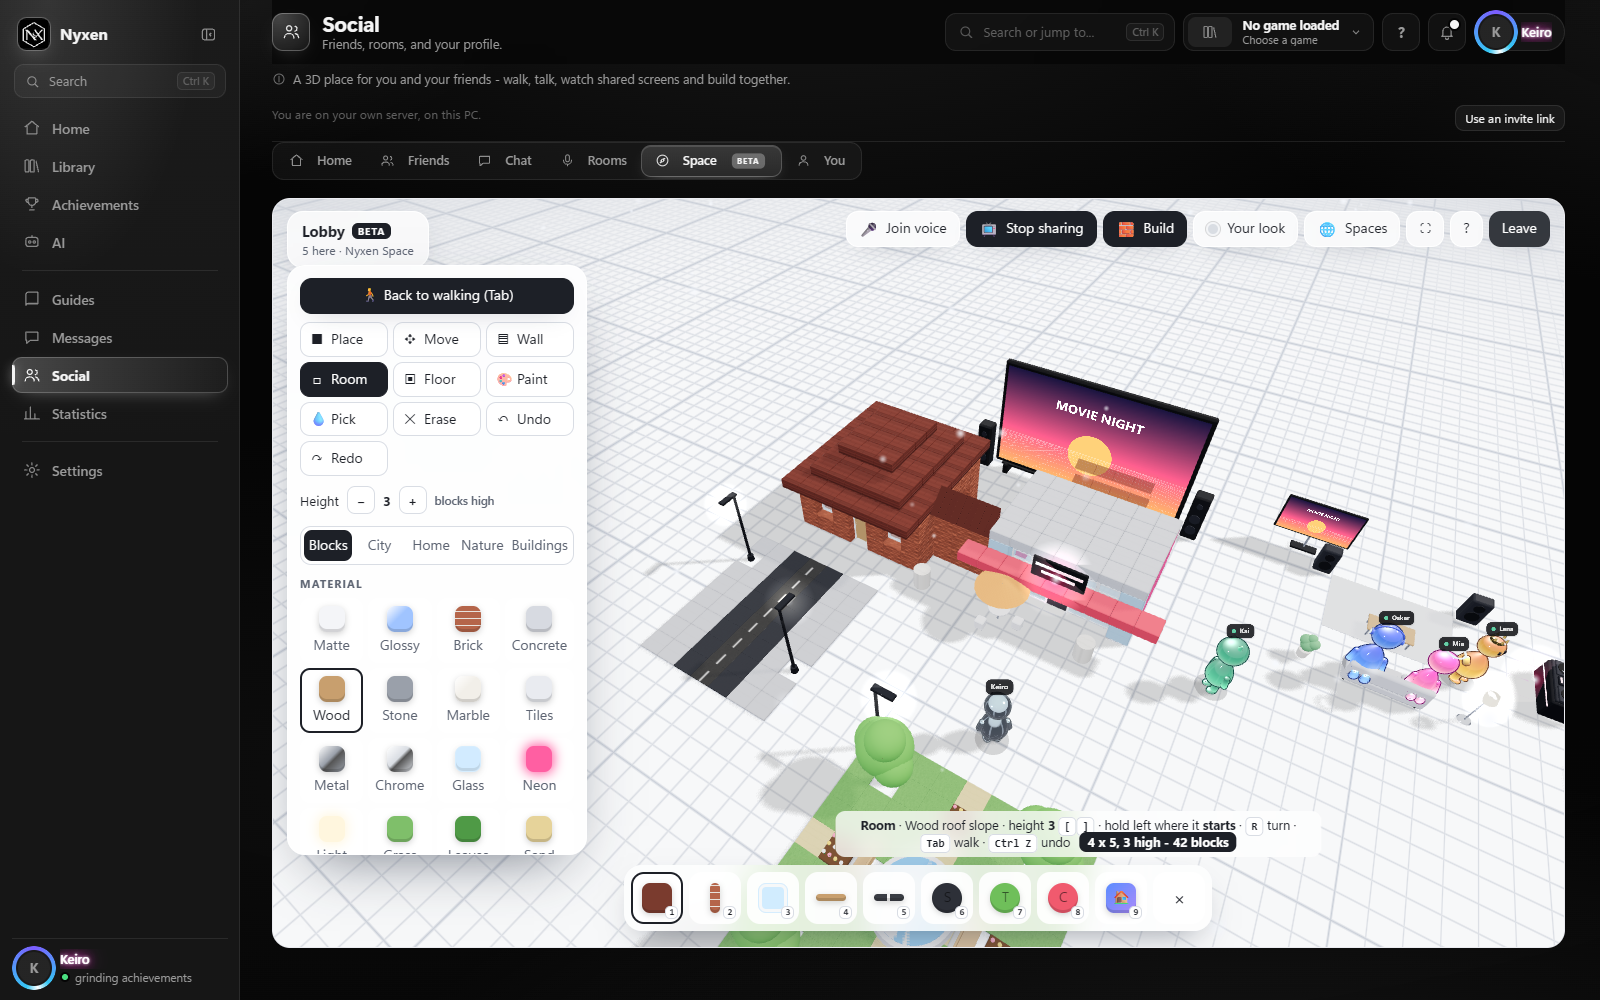
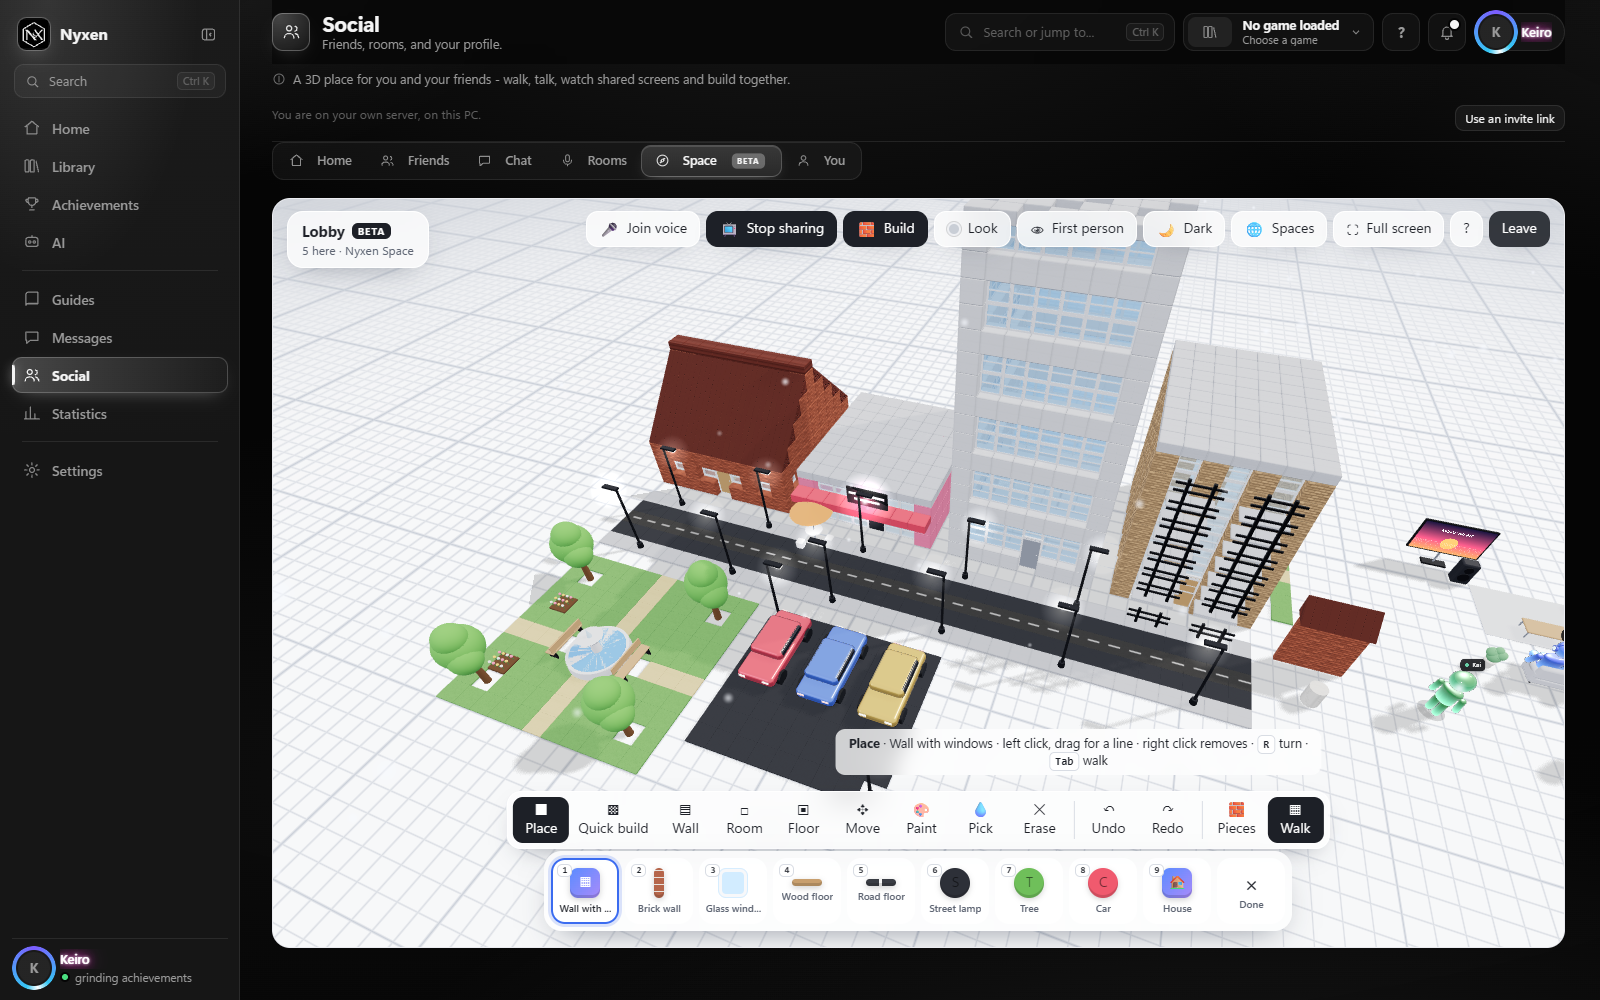
Publish the Nyxen site
Static build for GitHub Pages: the size and SHA-256 of the
installer are measured at build time rather than typed, the
screenshot gallery is generated from the shots folder, and the
download points at the Release rather than a file in the repo.

Changed region(s): [[0.1562, 0.186, 1.0, 0.961], [0.75, 0.93, 0.8125, 0.961], [0.9062, 0.434, 0.9375, 0.465]]

diff --git a/index.html b/index.html
@@ -4,7 +4,7 @@
 <meta charset="utf-8">
 <meta name="viewport" content="width=device-width, initial-scale=1">
 <title>Nyxen — one place for your games</title>
-<meta name="description" content="A Windows companion for your games: mods from four sites at once, Minecraft with any launcher, RetroArch achievements, friends and calls. Free, one click, no account needed.">
+<meta name="description" content="A Windows companion for your games: mods from four sites at once, Minecraft with any launcher, RetroArch achievements, friends, calls and a 3D Space. Free - with a free Nyxen account you make in the app.">
 <meta name="theme-color" content="#060606">
 <link rel="icon" href="logo.svg" type="image/svg+xml">
 <meta property="og:title" content="Nyxen">
@@ -549,18 +549,20 @@
     <h1><span class="shine" data-split>One place for your games.</span></h1>
     <p class="sub">Mods from four sites at once. Minecraft with whatever launcher
       you already have - now in 3D blocks. Retro achievements. Your friends, and a 3D
-      Space to hang out in. One Windows app that needs no account to be useful.</p>
+      Space to hang out in. One Windows app and one free Nyxen account.</p>
     <div class="cta">
-      <a class="btn magnet" href="https://github.com/Kerioxsx/nyxen/releases/download/v1.13.0/NyxenSetup.exe"><span>Download for Windows</span>
+      <a class="btn magnet" href="https://github.com/Kerioxsx/nyxen/releases/download/v1.14.0/NyxenSetup.exe"><span>Download for Windows</span>
         <span class="arw" aria-hidden="true">&rarr;</span></a>
       <a class="btn ghost magnet" href="#look"><span>See it first</span></a>
     </div>
-    <p class="meta">Version 1.13.0 &middot; 40.6 MB &middot; Windows 10 and 11
+    <p class="meta">Version 1.14.0 &middot; 40.6 MB &middot; Windows 10 and 11
       &middot; no administrator rights needed</p>
     <div class="news">
       <a href="#s-tray"><b>New</b>Nyxen in the tray</a>
       <a href="#s-map"><b>New</b>Minecraft in 3D blocks</a>
-      <a href="#s-space"><b>Beta</b>Nyxen Space - a 3D room for friends</a>
+      <a href="#s-space"><b>Beta</b>Nyxen Space - chrome figures, DJ decks and a cinema</a>
+      <a href="#s-build"><b>New</b>Quick build: drag an area, pick a building</a>
+      <a href="#s-views"><b>New</b>First person, full screen, dark or white</a>
       <a href="#s-voice"><b>New</b>A voice that sounds human</a>
       <a href="#s-social"><b>New</b>Songs with their covers, instantly</a>
     </div>
@@ -588,7 +590,7 @@
   </div>
 
   <section id="new">
-    <p class="eyebrow rise">New in 1.13.0</p>
+    <p class="eyebrow rise">New in 1.14.0</p>
     <h2 class="rise">The biggest update yet</h2>
     <p class="lead rise">Everything below is in the build on this page - click a picture to see it full size.</p>
 
@@ -629,21 +631,57 @@
     </div>
 
     <div class="spot flip rise" id="s-space">
-      <div class="shotbox" data-full="shots/space.png"><img src="shots/space.png" alt="Glossy buddies around a couch and DJ decks under a grey sky, with a shared screen on the TV" loading="lazy">
-        <div class="pip"><img src="shots/space_build.png" alt="Building a brick house, a shop and a road in Nyxen Space" loading="lazy"></div></div>
+      <div class="shotbox" data-full="shots/space.png"><img src="shots/space.png" alt="Chrome figures in Nyxen Space: one says 'bro answer your phone' in a blue bubble, friends sit on the couch in front of a shared screen, and a green mic shows who is talking" loading="lazy">
+        <div class="pip"><img src="shots/space_dark.png" alt="The same Space at night, with a grid of light on the floor" loading="lazy"></div></div>
       <div>
         <span class="kick beta">Beta</span>
         <h3>Nyxen Space: hang out in 3D</h3>
         <p>A tab in Social: a white grid floor under a soft grey sky - or a night one - where you and your
-          friends walk around as glossy buddies with floating heads, like the old messenger icon, dressed the way you like.</p>
+          friends walk around as shiny figures with a floating head, shoulders, arms and legs, dressed the way you like.</p>
         <ul>
-          <li>Your look: any colour, glossy, jelly, two-tone, chrome or oil-slick, height, build, face and a hat</li>
-          <li>Talk: a real voice call, quieter the further away people stand - and chat bubbles over heads</li>
+          <li>Your look: any colour in chrome, glossy, jelly, two-tone or oil-slick, height, build, head and a hat</li>
+          <li>Talk: a real voice call, quieter the further away people stand - a green mic floats over whoever is talking</li>
+          <li>Say something and it pops up in a blue bubble over your head</li>
           <li>DJ decks: paste any song link and everyone there hears it, in time - louder near the decks</li>
           <li>Sit on the couch and watch whoever shares their screen on the TV - or on a cinema screen</li>
-          <li>Build like a city builder, walking or from a top view: walls and rooms in one drag, roof slopes,
-            columns, roads, lamps, cars, ready-made buildings - and Move to rearrange anything</li>
-          <li>Make your own spaces, light or dark, and everything you build stays</li>
+          <li>Make your own spaces and invite friends - everything you build stays</li>
+        </ul>
+      </div>
+    </div>
+
+    <div class="spot rise" id="s-build">
+      <div class="shotbox" data-full="shots/space_build.png"><img src="shots/space_build.png" alt="A street made with quick build in Nyxen Space: a brick house, a pink shop, an office tower and apartments along a road, with a park and a parking lot across it" loading="lazy">
+        <div class="pip"><img src="shots/space_zone.png" alt="The quick build menu next to a dragged area: house, shop, office tower, apartments, park, plaza, parking, road, floor, walls around and clear it" loading="lazy"></div></div>
+      <div>
+        <span class="kick">Nyxen Space</span>
+        <h3>Quick build: drag an area, pick what goes there</h3>
+        <p>Pick <b>Quick build</b>, drag over the ground and choose - a house, a shop, an office tower,
+          apartments, a park, a plaza, parking or a road. It is built to fit the area you dragged, facing you.
+          The street above took seven drags.</p>
+        <ul>
+          <li>Ready-made pieces: brick and white walls, walls with windows or a door, glass, fences,
+            stairs, a roof and a floor - placed in one click</li>
+          <li>Walls and rooms in one drag, floors in one drag, and <b>Clear it</b> empties an area</li>
+          <li>A bigger hotbar with names under every slot - click a slot again for every piece and colour</li>
+          <li>Every tool in one row: Place, Quick build, Wall, Room, Floor, Move, Paint, Pick, Erase, Undo and Redo</li>
+          <li>A top view (Tab) to plan a whole street, then walk it</li>
+          <li>See what you are about to build before you click - and Move to rearrange anything later</li>
+        </ul>
+      </div>
+    </div>
+
+    <div class="spot flip rise" id="s-views">
+      <div class="shotbox" data-full="shots/space_first.png"><img src="shots/space_first.png" alt="First person in Nyxen Space: looking over the couch at friends watching a shared screen, a green mic over the one talking" loading="lazy"></div>
+      <div>
+        <span class="kick">Nyxen Space</span>
+        <h3>Your view, your way</h3>
+        <p>See the Space through your own eyes, fill the whole screen with it, and pick day or night - for you,
+          without changing it for anyone else.</p>
+        <ul>
+          <li><b>First person</b>: one button, F5, or scroll all the way in - scroll out to see yourself again</li>
+          <li><b>Full screen</b>: the Space takes the whole monitor, Esc brings Nyxen back</li>
+          <li><b>Dark or White</b>: one button flips the Space between a night sky and a bright grey one</li>
+          <li>Left click builds, right click removes, the middle button picks up what you point at</li>
         </ul>
       </div>
     </div>
@@ -654,7 +692,7 @@
         <span class="kick">Assistant</span>
         <h3>A voice that sounds like a person</h3>
         <p>One click in Settings and the assistant stops sounding like a robot. The natural voice runs
-          entirely on your PC - no key, no account, nothing you say is sent anywhere.</p>
+          entirely on your PC - no key to paste, and nothing you say is sent anywhere.</p>
         <ul>
           <li>Ten voices: Heart, Bella, Nicole, Michael, Fenrir, Puck, Emma, George - and Spanish</li>
           <li>Starts talking while it is still thinking of the next sentence</li>
@@ -701,8 +739,8 @@
       <div class="card rise">
         <span class="tag">New</span>
         <h3>Nyxen Space (beta)</h3>
-        <p>A 3D room for friends: glossy buddies, voice that fades with distance, DJ decks for music,
-          a couch, a TV and a cinema screen for shared screens, and building together.</p>
+        <p>A 3D place for friends: chrome figures, voice that fades with distance and a mic over whoever talks,
+          DJ decks, a couch, a TV and a cinema screen, quick build, first person, full screen, dark or white.</p>
       </div>
 
       <div class="card rise">
@@ -751,15 +789,15 @@
         <span class="tag">Minecraft</span>
         <h3>Your skin, in 3D</h3>
         <p>A real model you turn with the mouse, drawn without any 3D library
-          so it works offline. Look up any player's skin by name, which needs
-          no account at all, and wear one if you sign in.</p>
+          so it works offline. Look up any player's skin by name, and wear one
+          when you sign in to Minecraft.</p>
       </div>
 
       <div class="card rise">
         <span class="tag">Retro</span>
         <h3>RetroArch and RetroAchievements</h3>
         <p>Finds RetroArch by itself and identifies your ROMs by hash against
-          141 systems. No key, no account, and it works offline after the
+          141 systems. No key to paste, and it works offline after the
           first lookup.</p>
         <ul>
           <li>What you are playing, its platform and its player count</li>
@@ -789,7 +827,7 @@
         <ul>
           <li>Profile with what you are playing and its art</li>
           <li>Groups, challenges and a leaderboard</li>
-          <li>Join by a link, not an account on someone's platform</li>
+          <li>Friends join with an invite link</li>
         </ul>
       </div>
 
@@ -852,9 +890,9 @@
 
   <section id="start">
     <p class="eyebrow rise">Getting started</p>
-    <h2 class="rise">Three steps, and none of them is a sign-up</h2>
-    <p class="lead rise">There is no account wall, no key to paste and no
-      launcher to install first.</p>
+    <h2 class="rise">Three steps</h2>
+    <p class="lead rise">Install it, make your free Nyxen account in the app, play. No key to
+      paste and no launcher to install first.</p>
     <div class="steps">
       <div class="step rise">
         <div class="num">01</div>
@@ -864,15 +902,15 @@
       </div>
       <div class="step rise">
         <div class="num">02</div>
-        <h3>It looks around</h3>
-        <p>Steam, your Minecraft launchers and RetroArch are found where they
-          already are. Nothing is moved or rewritten.</p>
+        <h3>Make your account</h3>
+        <p>A name and a password, in the app, in a few seconds - it is free. Your
+          friends, messages, the Space and your settings live on it.</p>
       </div>
       <div class="step rise">
         <div class="num">03</div>
         <h3>Play</h3>
-        <p>Search mods, check achievements, read your ROM shelf. Add friends
-          later, or never.</p>
+        <p>Steam, your Minecraft launchers and RetroArch are found where they
+          already are. Search mods, check achievements, hang out in the Space.</p>
       </div>
     </div>
   </section>
@@ -895,7 +933,7 @@
           <li>The Nyxen AI assistant</li>
           <li>52 themes, your own accent colour and font</li>
         </ul>
-        <a class="btn ghost" href="https://github.com/Kerioxsx/nyxen/releases/download/v1.13.0/NyxenSetup.exe"><span>Download free</span></a>
+        <a class="btn ghost" href="https://github.com/Kerioxsx/nyxen/releases/download/v1.14.0/NyxenSetup.exe"><span>Download free</span></a>
       </div>
       <div class="card plan best">
         <div class="pn">Nyxen Eclipse</div>
@@ -937,10 +975,9 @@
         <span>SmartScreen will warn you the first time, as it does for any
           installer without a paid certificate. The SHA-256 below lets you
           check the file instead.</span></div>
-      <div class="row"><b>No account to use it</b>
-        <span>Mods, Minecraft, retro, achievements and the toolkit all work
-          with nothing signed in. An account is only for friends and
-          messages.</span></div>
+      <div class="row"><b>You need a Nyxen account</b>
+        <span>It is free and you make it in the app in a few seconds. It keeps your
+          friends, messages, the Space and your settings.</span></div>
       <div class="row"><b>Some features use logins you already have</b>
         <span>A Minecraft skin change needs a Microsoft sign-in. Retro
           progress reads the RetroAchievements login RetroArch stores, and
@@ -962,11 +999,11 @@
     <p class="eyebrow rise">Download</p>
     <h2 class="rise">One file. Open it, click Install, and it launches.</h2>
     <div class="cta rise" style="justify-content:flex-start">
-      <a class="btn magnet" href="https://github.com/Kerioxsx/nyxen/releases/download/v1.13.0/NyxenSetup.exe"><span>NyxenSetup.exe &middot; 40.6 MB</span>
+      <a class="btn magnet" href="https://github.com/Kerioxsx/nyxen/releases/download/v1.14.0/NyxenSetup.exe"><span>NyxenSetup.exe &middot; 40.6 MB</span>
         <span class="arw" aria-hidden="true">&darr;</span></a>
       <a class="btn ghost magnet" href="sha256.txt"><span>Checksum</span></a>
     </div>
-    <p class="meta">SHA-256 <code>73c6631fd77ed6516264a5820bb6a787205238f9ee72135351e019eee7246d00</code><br>
+    <p class="meta">SHA-256 <code>460e4e24042fe57c92d2e0715c5930b4c425e074ae9e06904275045bd0341084</code><br>
       Check it with <code>certutil -hashfile NyxenSetup.exe SHA256</code> —
       built into Windows, nothing to install.</p>
     <div class="note rise" style="margin-top:22px">
@@ -980,9 +1017,9 @@
   <footer>
     <span class="mark" style="width:26px;height:26px;border-radius:8px">
       <img src="logo.svg" alt="" width="26" height="26"></span>
-    <span>Nyxen 1.13.0 — made by Antonio</span>
+    <span>Nyxen 1.14.0 — made by Antonio</span>
     <a href="terms.html">Terms</a>
-    <a href="https://github.com/Kerioxsx/nyxen/releases/download/v1.13.0/NyxenSetup.exe">Download</a>
+    <a href="https://github.com/Kerioxsx/nyxen/releases/download/v1.14.0/NyxenSetup.exe">Download</a>
     <span class="right">Not affiliated with Valve, Mojang, Microsoft, Modrinth,
       Thunderstore, GameBanana, RetroAchievements or libretro.</span>
   </footer>

diff --git a/terms.html b/terms.html
@@ -98,7 +98,7 @@
   </a>
   <nav>
     <a href="index.html">Home</a>
-    <a href="https://github.com/Kerioxsx/nyxen/releases/download/v1.13.0/NyxenSetup.exe">Download</a>
+    <a href="https://github.com/Kerioxsx/nyxen/releases/download/v1.14.0/NyxenSetup.exe">Download</a>
   </nav>
 </header>
 
@@ -314,7 +314,7 @@ position for a free project made by one person.</p>
 <footer>
   <span>Nyxen 1.6.1</span>
   <a href="index.html">Home</a>
-  <a href="https://github.com/Kerioxsx/nyxen/releases/download/v1.13.0/NyxenSetup.exe">Download</a>
+  <a href="https://github.com/Kerioxsx/nyxen/releases/download/v1.14.0/NyxenSetup.exe">Download</a>
   <a href="sha256.txt">Checksum</a>
 </footer>
 

diff --git a/README.md b/README.md
@@ -7,8 +7,8 @@ with whatever launcher you already use, RetroArch achievements, and friends.
 
 **Site:** https://Kerioxsx.github.io/nyxen/
 
-Free, installs without administrator rights, and needs no account to be
-useful. Windows 10 and 11 only.
+Free and installs without administrator rights. You make a free Nyxen
+account in the app. Windows 10 and 11 only.
 
 The installer is not code-signed, so SmartScreen will warn you the first
 time. The SHA-256 is published beside the download and in `sha256.txt`.
